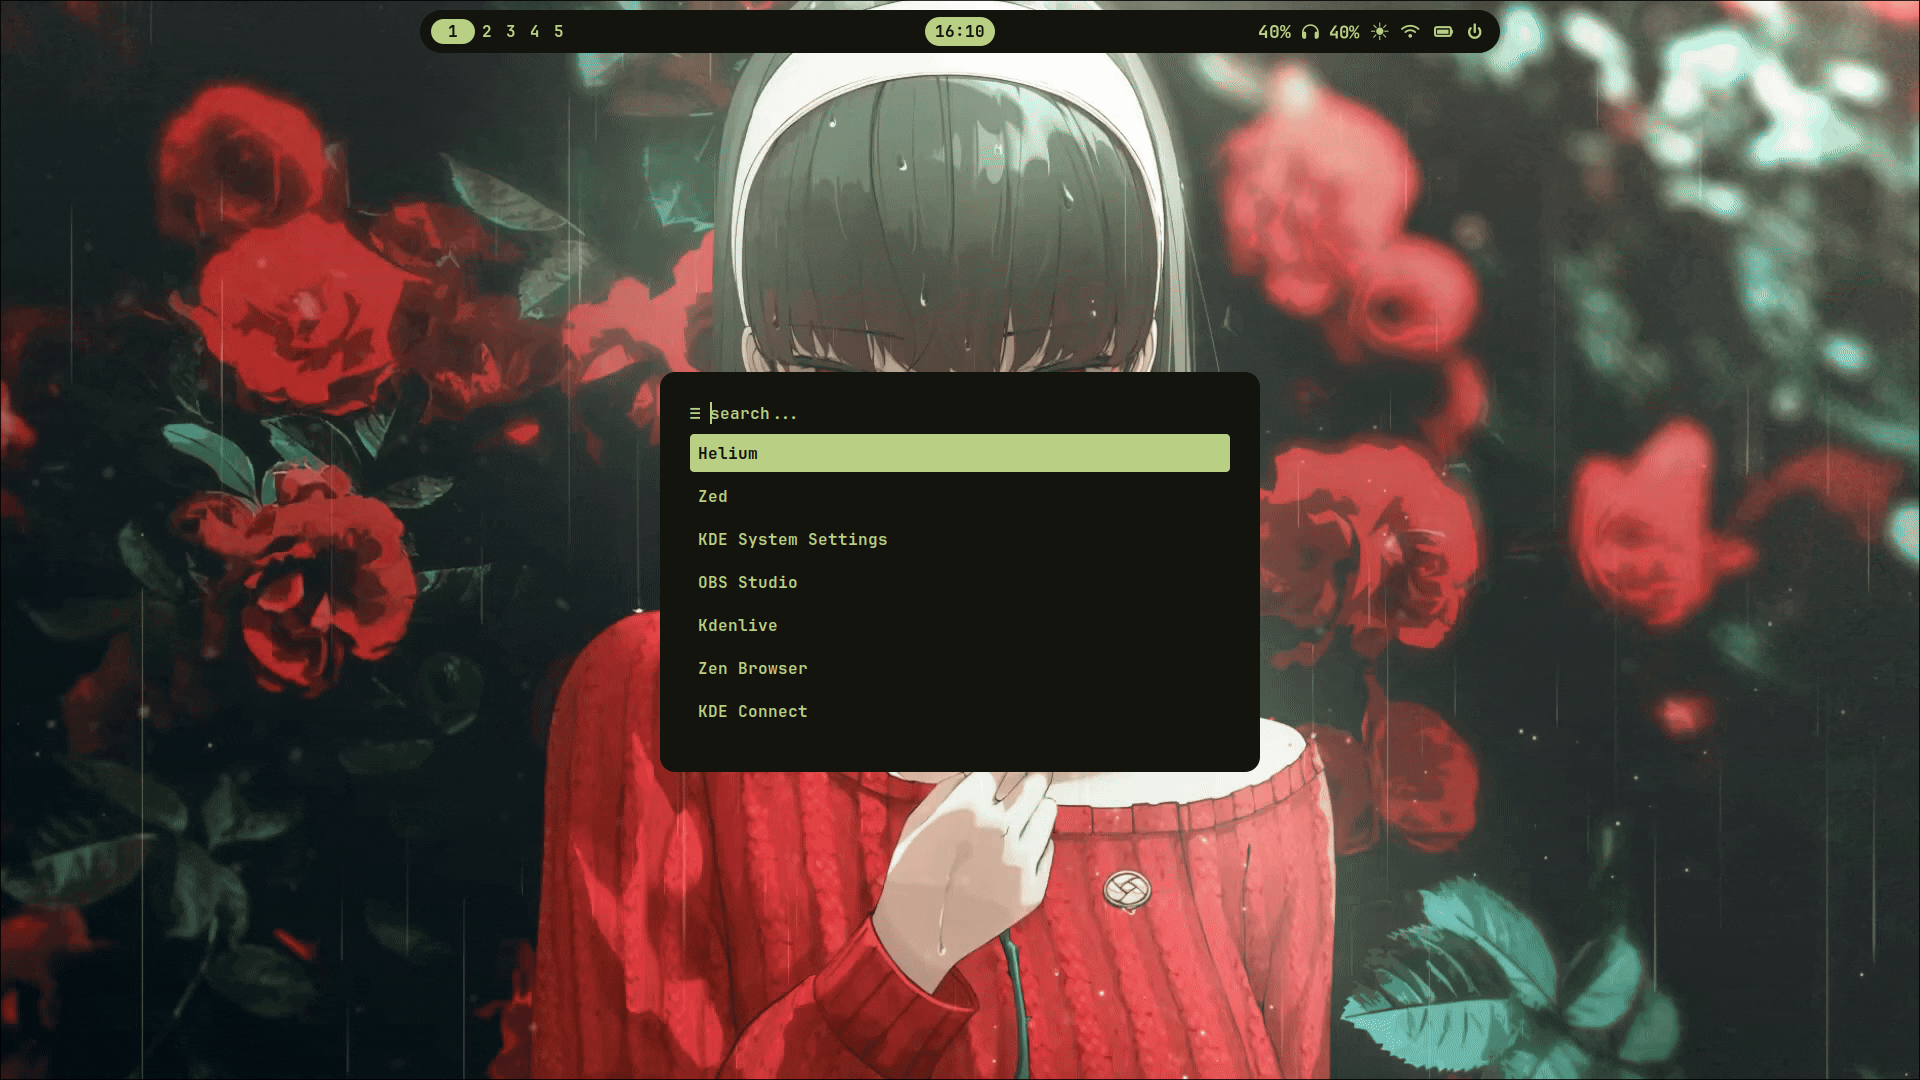
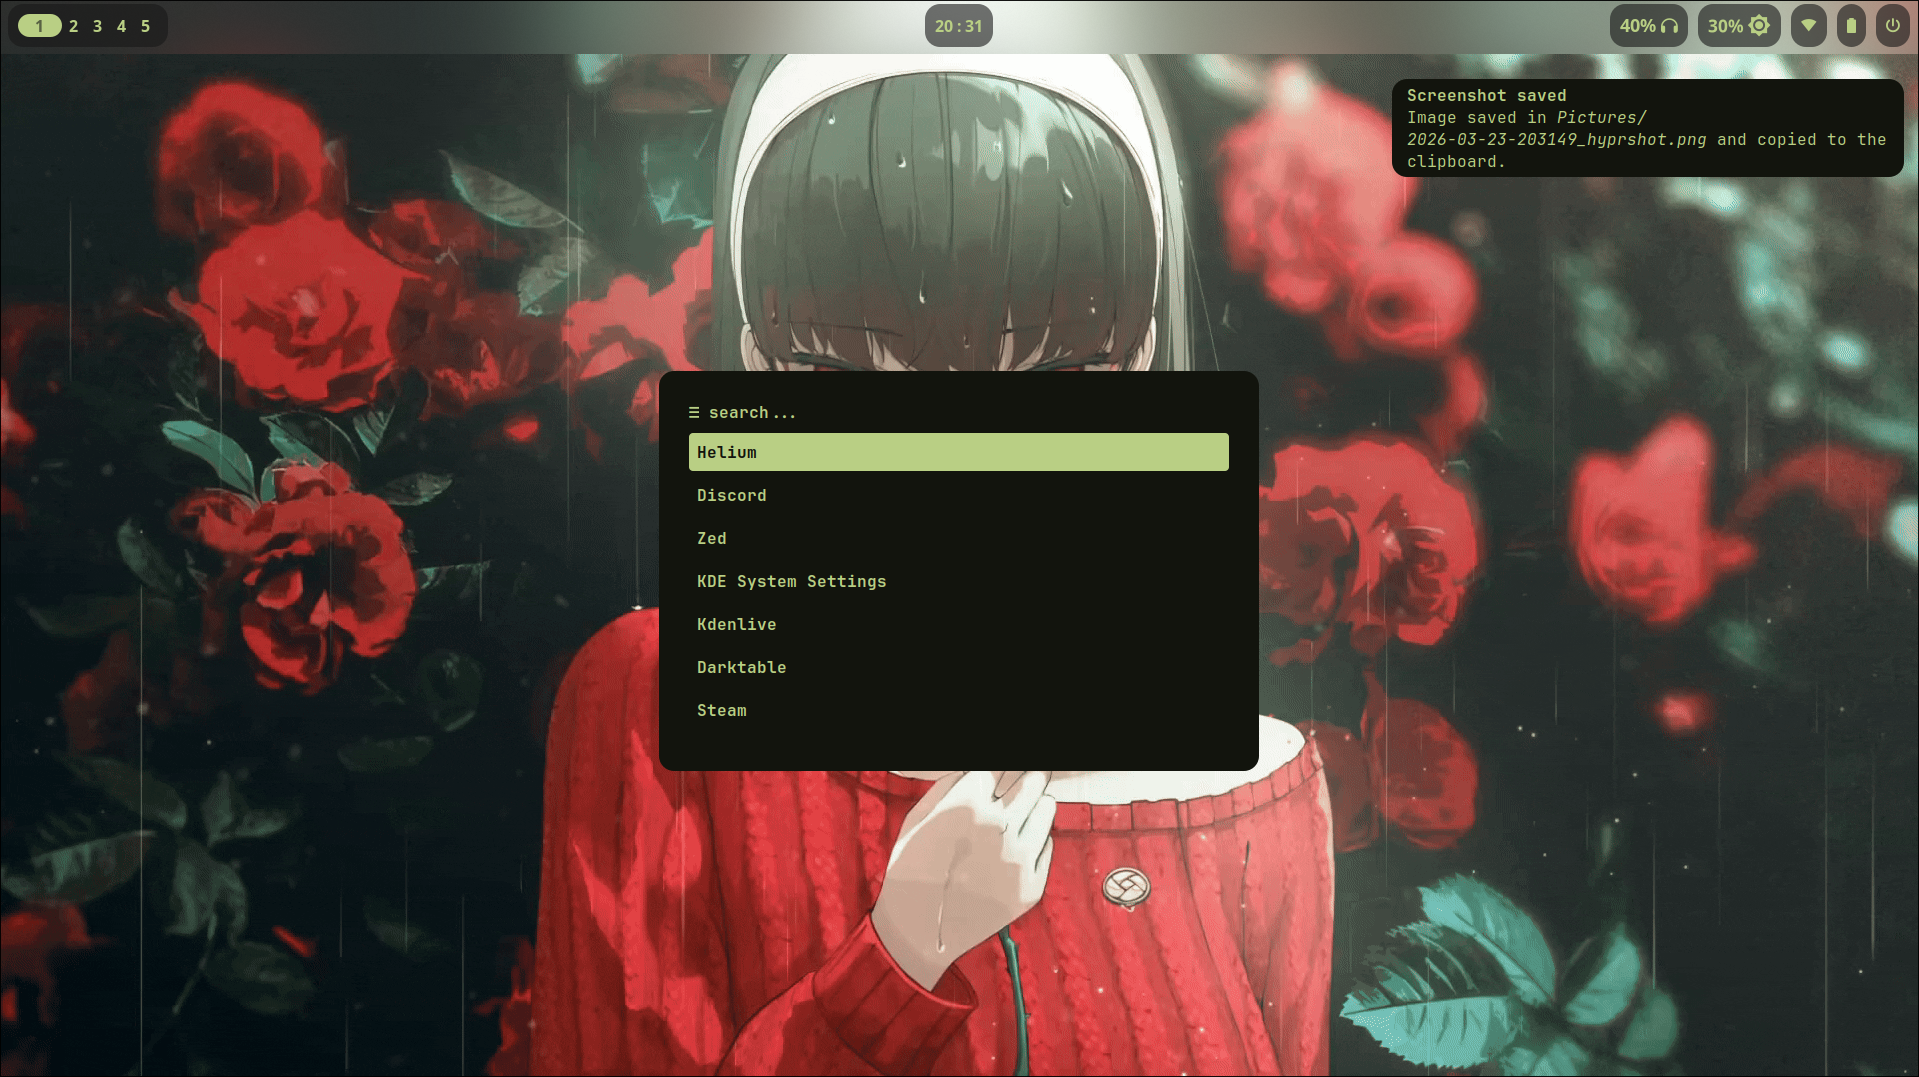
new: waybar config

diff --git a/waybar/style.css b/waybar/style.css
@@ -3,7 +3,9 @@
 * {
     border: none;
     border-radius: 0px;
-    font-family: "JetBrainsMono Nerd Font Propo";
+    font-family:
+        "Noto Sans", "Adwaita Mono", "Noto Sans Mono",
+        "JetBrainsMono Nerd Font Propo";
     font-weight: bold;
     font-size: 16px;
     min-height: 0;
@@ -19,7 +21,7 @@ tooltip {
 }
 
 window#waybar {
-    background: @bg;
+    background: transparent;
     border-radius: 30px;
     color: @fg;
 }
@@ -29,15 +31,20 @@ tooltip label {
 }
 
 .modules-left,
-.modules-center,
+.modules-center {
+    background: transparent;
+    margin: 0px 0px;
+    border-radius: 30px;
+}
+
 .modules-right {
-    background: @bg;
+    background: transparent;
     margin: 0px 0px;
     border-radius: 30px;
 }
 
 #workspaces {
-    padding: 2px 2px;
+    padding: 10px 10px;
     background: @bg;
     margin: 7px 5px;
 }
@@ -58,58 +65,62 @@ tooltip label {
     border-radius: 15px;
 }
 
+#clock,
+#pulseaudio,
+#backlight,
+#custom-power,
+#network,
+#battery,
+#workspaces {
+    border-radius: 15px;
+    border-color: @fg;
+}
+
 #clock {
     padding: 0px 10px;
-    color: @bg;
-    background: @fg;
-    border-radius: 30px;
+    color: @fg;
+    background: @bg;
     margin: 7px 5px;
-    transition: all 150ms ease-in-out;
 }
 
 #battery {
     font-size: 18px;
-    padding: 0px 0px;
-    background: transparent;
-    border-radius: 30px;
+    padding: 0px 10px;
+    background: @bg;
     margin: 7px 5px;
 }
 
 #pulseaudio {
-    padding: 0px 0px;
-    background: transparent;
-    border-radius: 30px;
+    padding: 0px 10px;
+    background: @bg;
     margin: 7px 5px;
     font-size: 18px;
 }
 
 #custom-power {
     font-size: 16px;
-    padding: 0px 10px 0px 5px;
-    background: transparent;
-    border-radius: 30px;
+    padding: 0px 10px;
+    background: @bg;
     margin: 7px 5px;
 }
 
 #backlight {
-    padding: 0px 0px;
-    background: transparent;
-    border-radius: 30px;
+    padding: 0px 10px;
+    background: @bg;
     margin: 7px 5px;
     font-size: 16px;
 }
 
 #network {
-    padding: 0 5px 0px 0px;
-    background: transparent;
-    border-radius: 30px;
+    padding: 0px 10px;
+    background: @bg;
     margin: 7px 5px;
 }
 
 #mpris {
     font-size: 16px;
-    padding: 0px 11px;
-    background: transparent;
+    padding: 0px 10px;
+    background: @bg;
     color: @fg;
     border-radius: 30px;
     margin: 7px 5px;

diff --git a/matugen/templates/waybar.css b/matugen/templates/waybar.css
@@ -1,2 +1,2 @@
-@define-color bg {{colors.surface.default.hex}};
+@define-color bg rgba(24, 24, 24, 0.6);
 @define-color fg {{colors.primary.default.hex}};

diff --git a/waybar/colors/colors.css b/waybar/colors/colors.css
@@ -1,2 +1,2 @@
-@define-color bg #12140d;
+@define-color bg rgba(24, 24, 24, 0.6);
 @define-color fg #b9cf84;
